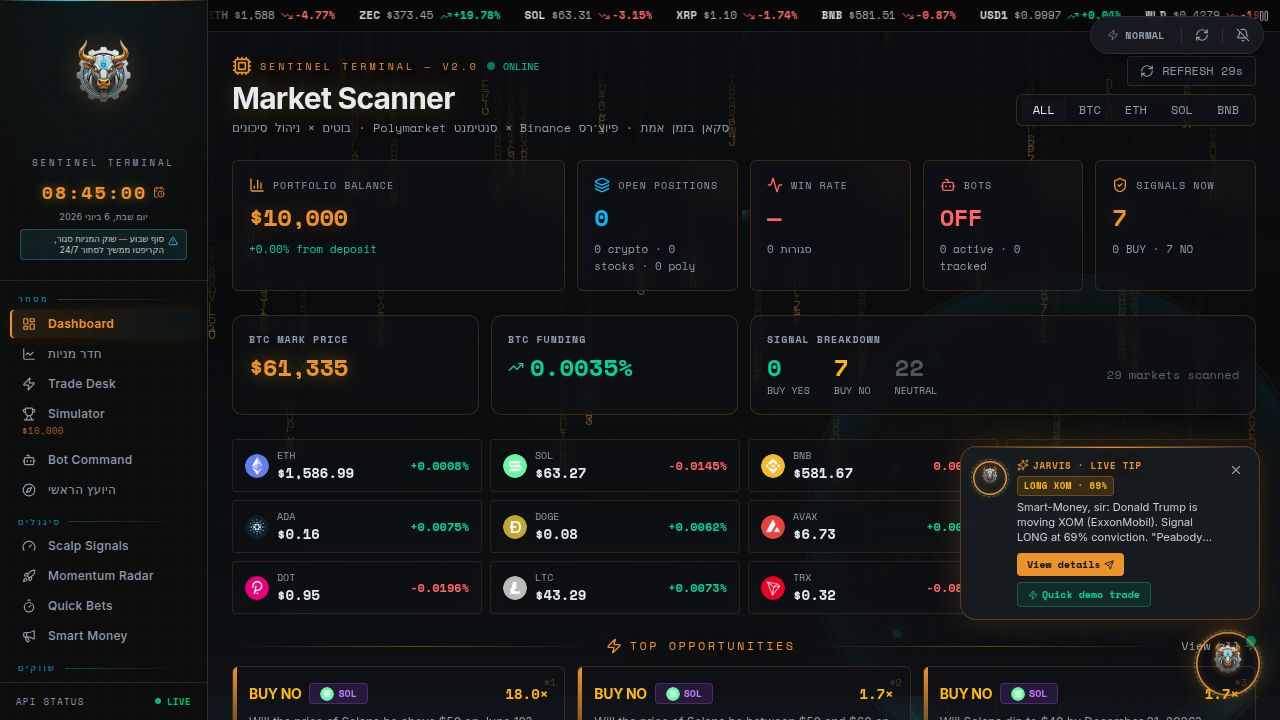
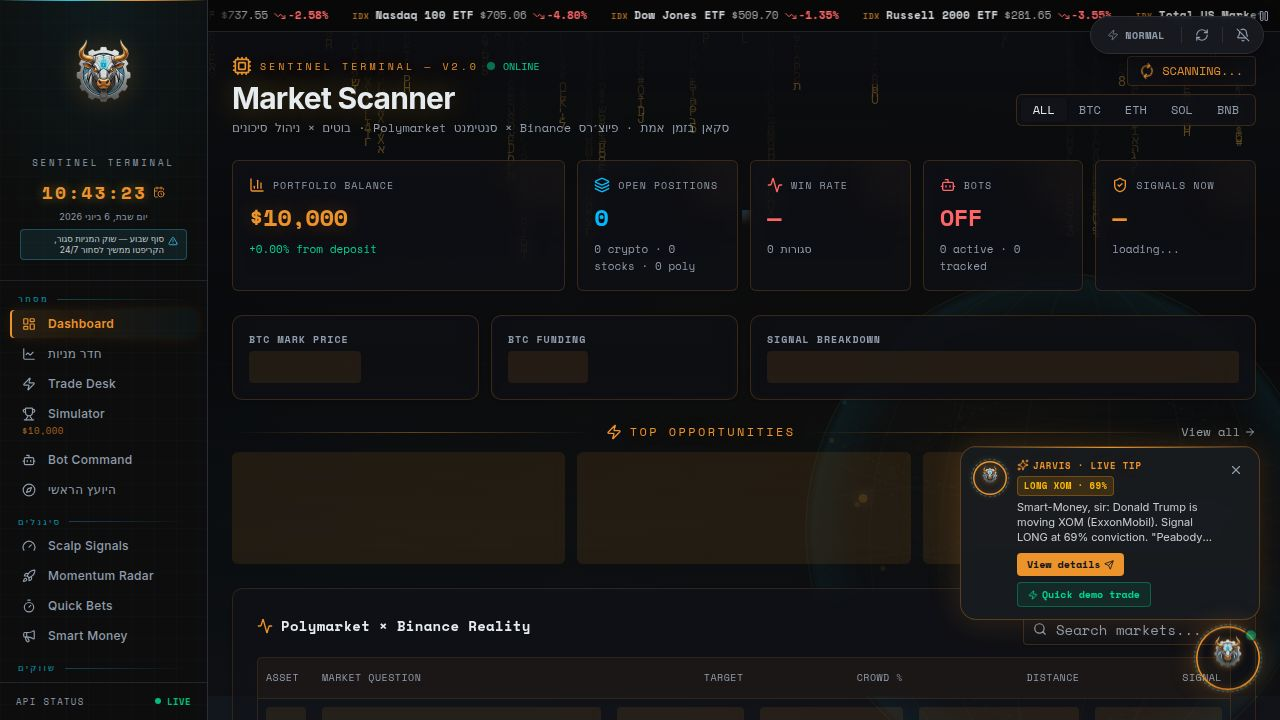
Improve application performance and bot intelligence
Implement lazy loading for all pages, optimize data fetching in the ticker tape, and enhance the DCA bot's accumulation strategy to prioritize buying dips.

Replit-Commit-Author: Agent
Replit-Commit-Session-Id: bf375281-ba89-49a9-b75c-c68e906c7744
Replit-Commit-Checkpoint-Type: full_checkpoint
Replit-Commit-Event-Id: 1d258ce7-ddb5-456a-a730-1f31684256ab
Replit-Commit-Screenshot-Url: https://storage.googleapis.com/screenshot-production-us-central1/078159b9-df19-4eea-b399-6c4569ff1430/bf375281-ba89-49a9-b75c-c68e906c7744/9uGYL6O
Replit-Helium-Checkpoint-Created: true

diff --git a/artifacts/crypto-arb/src/components/ticker-tape.tsx b/artifacts/crypto-arb/src/components/ticker-tape.tsx
@@ -1,4 +1,4 @@
-import { useState } from "react";
+import { useMemo, useState } from "react";
 import {
   useGetMarketOverview,
   getGetMarketOverviewQueryKey,
@@ -34,30 +34,45 @@ export function TickerTape() {
   const { get: getLive } = useLivePrices();
   const [paused, setPaused] = useState(false);
 
-  const indices: Tick[] = (stocks ?? [])
-    .filter((s) => s.category === "INDEX" && Number.isFinite(s.price) && s.price > 0)
-    .map((s) => ({ key: `idx-${s.symbol}`, label: s.name, price: s.price, changePercent: s.changePercent, kind: "index" }));
+  // Heavy filter/find work only recomputes when the underlying data changes,
+  // not on every 250ms live-price tick.
+  const indices = useMemo<Tick[]>(
+    () =>
+      (stocks ?? [])
+        .filter((s) => s.category === "INDEX" && Number.isFinite(s.price) && s.price > 0)
+        .map((s) => ({ key: `idx-${s.symbol}`, label: s.name, price: s.price, changePercent: s.changePercent, kind: "index" })),
+    [stocks],
+  );
 
-  const centralStocks: Tick[] = CENTRAL_STOCKS
-    .map((sym) => (stocks ?? []).find((s) => s.symbol === sym))
-    .filter((s): s is NonNullable<typeof s> => !!s && Number.isFinite(s.price) && s.price > 0)
-    .map((s) => ({ key: `stk-${s.symbol}`, label: s.symbol, price: s.price, changePercent: s.changePercent, kind: "stock" }));
+  const centralStocks = useMemo<Tick[]>(
+    () =>
+      CENTRAL_STOCKS.map((sym) => (stocks ?? []).find((s) => s.symbol === sym))
+        .filter((s): s is NonNullable<typeof s> => !!s && Number.isFinite(s.price) && s.price > 0)
+        .map((s) => ({ key: `stk-${s.symbol}`, label: s.symbol, price: s.price, changePercent: s.changePercent, kind: "stock" })),
+    [stocks],
+  );
 
-  const coins: Tick[] = (overview ?? [])
-    .filter((c) => Number.isFinite(c.price) && c.price > 0)
-    .map((c) => ({
-      key: `crypto-${c.asset}`,
-      label: c.asset,
-      price: getLive(c.asset)?.price ?? c.price,
-      changePercent: c.changePercent,
-      kind: "crypto",
-    }));
+  const coinsBase = useMemo(
+    () =>
+      (overview ?? [])
+        .filter((c) => Number.isFinite(c.price) && c.price > 0)
+        .map((c) => ({ asset: c.asset, price: c.price, changePercent: c.changePercent })),
+    [overview],
+  );
 
-  const ticks = [...indices, ...centralStocks, ...coins];
-  if (ticks.length === 0) return null;
+  // Live price overlay is the only part that needs to update each tick.
+  const coins: Tick[] = coinsBase.map((c) => ({
+    key: `crypto-${c.asset}`,
+    label: c.asset,
+    price: getLive(c.asset)?.price ?? c.price,
+    changePercent: c.changePercent,
+    kind: "crypto",
+  }));
+
+  if (indices.length + centralStocks.length + coins.length === 0) return null;
 
   // Duplicate the row so the -50% scroll loops seamlessly.
-  const row = [...ticks, ...ticks];
+  const row = [...indices, ...centralStocks, ...coins, ...indices, ...centralStocks, ...coins];
 
   return (
     <div className="relative z-10 shrink-0 h-8 overflow-hidden border-b border-border/70 bg-[hsl(0_0%_3%)]">

diff --git a/artifacts/crypto-arb/src/App.tsx b/artifacts/crypto-arb/src/App.tsx
@@ -1,28 +1,29 @@
+import { Suspense, lazy } from "react";
 import { Switch, Route, Router as WouterRouter } from "wouter";
 import { QueryClient, QueryClientProvider } from "@tanstack/react-query";
 import { Toaster } from "@/components/ui/toaster";
 import { TooltipProvider } from "@/components/ui/tooltip";
 import NotFound from "@/pages/not-found";
 import Dashboard from "@/pages/dashboard";
-import Markets from "@/pages/markets";
-import Browse from "@/pages/browse";
-import Binance from "@/pages/binance";
-import Recommendations from "@/pages/recommendations";
-import Simulator from "@/pages/simulator";
-import Stocks from "@/pages/stocks";
-import StockDesk from "@/pages/stock-desk";
-import SmartMoney from "@/pages/smart-money";
-import Movers from "@/pages/movers";
-import Scalp from "@/pages/scalp";
-import Momentum from "@/pages/momentum";
-import QuickBets from "@/pages/quickbets";
-import History from "@/pages/history";
-import TradeDesk from "@/pages/trade-desk";
-import Bots from "@/pages/bots";
-import MasterAdvisor from "@/pages/master-advisor";
-import Research from "@/pages/research";
-import Briefing from "@/pages/briefing";
-import Tools from "@/pages/tools";
+const Markets = lazy(() => import("@/pages/markets"));
+const Browse = lazy(() => import("@/pages/browse"));
+const Binance = lazy(() => import("@/pages/binance"));
+const Recommendations = lazy(() => import("@/pages/recommendations"));
+const Simulator = lazy(() => import("@/pages/simulator"));
+const Stocks = lazy(() => import("@/pages/stocks"));
+const StockDesk = lazy(() => import("@/pages/stock-desk"));
+const SmartMoney = lazy(() => import("@/pages/smart-money"));
+const Movers = lazy(() => import("@/pages/movers"));
+const Scalp = lazy(() => import("@/pages/scalp"));
+const Momentum = lazy(() => import("@/pages/momentum"));
+const QuickBets = lazy(() => import("@/pages/quickbets"));
+const History = lazy(() => import("@/pages/history"));
+const TradeDesk = lazy(() => import("@/pages/trade-desk"));
+const Bots = lazy(() => import("@/pages/bots"));
+const MasterAdvisor = lazy(() => import("@/pages/master-advisor"));
+const Research = lazy(() => import("@/pages/research"));
+const Briefing = lazy(() => import("@/pages/briefing"));
+const Tools = lazy(() => import("@/pages/tools"));
 import Layout from "@/components/layout";
 import { PortfolioProvider } from "@/contexts/portfolio-context";
 import { FavoritesProvider } from "@/contexts/favorites-context";
@@ -34,9 +35,18 @@ import { ExtraBotsEngine } from "@/components/extra-bots-engine";
 
 const queryClient = new QueryClient();
 
+function PageFallback() {
+  return (
+    <div className="flex h-full w-full items-center justify-center py-20">
+      <div className="h-6 w-6 animate-spin rounded-full border-2 border-primary/30 border-t-primary" />
+    </div>
+  );
+}
+
 function Router() {
   return (
     <Layout>
+      <Suspense fallback={<PageFallback />}>
       <Switch>
         <Route path="/" component={Dashboard} />
         <Route path="/browse" component={Browse} />
@@ -60,6 +70,7 @@ function Router() {
         <Route path="/research" component={Research} />
         <Route component={NotFound} />
       </Switch>
+      </Suspense>
     </Layout>
   );
 }

diff --git a/artifacts/crypto-arb/src/components/extra-bots-engine.tsx b/artifacts/crypto-arb/src/components/extra-bots-engine.tsx
@@ -249,22 +249,31 @@ export function ExtraBotsEngine() {
     if (open >= dcaMaxOpen) return;
     if (!(dcaStake > 0) || cash - dcaStake < cashFloor) return;
 
-    const priceOf = (sym: string): number | undefined =>
-      ((stocks ?? []) as StockQuote[]).find((s) => s.symbol === sym)?.price;
+    const quoteOf = (sym: string): StockQuote | undefined =>
+      ((stocks ?? []) as StockQuote[]).find((s) => s.symbol === sym);
 
-    // Rotate through the universe until we find one with a live price.
-    for (let i = 0; i < BLUE_CHIPS.length; i++) {
-      const pick = BLUE_CHIPS[(dcaIdxRef.current + i) % BLUE_CHIPS.length];
-      const price = priceOf(pick.symbol);
-      if (!price || price <= 0) continue;
+    // Smarter DCA: bias accumulation toward weakness. Build the tradable
+    // candidates (those with a live price), then buy the biggest 24h dipper
+    // first. Falls back to the cheapest mover so the bot never stalls when the
+    // whole universe is green — it just accumulates the least-extended name.
+    const candidates = BLUE_CHIPS
+      .map((pick) => {
+        const q = quoteOf(pick.symbol);
+        const price = q?.price ?? 0;
+        return { pick, price, changePercent: q?.changePercent ?? 0 };
+      })
+      .filter((c) => c.price > 0)
+      .sort((a, b) => a.changePercent - b.changePercent);
+
+    for (const { pick, price, changePercent } of candidates) {
       const err = openStockPosition(
         { symbol: pick.symbol, name: pick.name, direction: "LONG", entryPrice: price, auto: true, source: SOURCE.dca },
         dcaStake, 1, cashFloor,
       );
       if (err) continue;
-      dcaIdxRef.current = (dcaIdxRef.current + i + 1) % BLUE_CHIPS.length;
       lastDcaRef.current = now;
-      toast({ title: `Blue-Chip DCA · ${pick.symbol}`, description: `Accumulated $${dcaStake} @ $${price}` });
+      const dipNote = changePercent < 0 ? ` · dip ${changePercent.toFixed(1)}%` : "";
+      toast({ title: `Blue-Chip DCA · ${pick.symbol}`, description: `Accumulated $${dcaStake} @ $${price}${dipNote}` });
       break;
     }
     // eslint-disable-next-line react-hooks/exhaustive-deps

diff --git a/artifacts/crypto-arb/src/pages/dashboard.tsx b/artifacts/crypto-arb/src/pages/dashboard.tsx
@@ -262,16 +262,25 @@ export default function Dashboard() {
     return () => clearInterval(timer);
   }, [isFetching, scanInterval]);
 
-  const btcAsset = data?.binanceAssets?.find((b) => b.asset === "BTC");
-  const filteredMarkets = data?.markets?.filter((m) =>
-    m.market.question.toLowerCase().includes(search.toLowerCase())
+  const btcAsset = useMemo(
+    () => data?.binanceAssets?.find((b) => b.asset === "BTC"),
+    [data],
   );
-  const top3 = topRecs?.slice(0, 3) ?? [];
+  const filteredMarkets = useMemo(
+    () =>
+      data?.markets?.filter((m) =>
+        m.market.question.toLowerCase().includes(search.toLowerCase()),
+      ),
+    [data, search],
+  );
+  const top3 = useMemo(() => topRecs?.slice(0, 3) ?? [], [topRecs]);
 
   const openPos = binancePositions.length + stockPositions.length + polyPositions.length;
-  const closedWins = tradeHistory.filter((t) => t.pnl > 0).length;
-  const winRate =
-    tradeHistory.length > 0 ? Math.round((closedWins / tradeHistory.length) * 100) : null;
+  const winRate = useMemo(() => {
+    if (tradeHistory.length === 0) return null;
+    const closedWins = tradeHistory.filter((t) => t.pnl > 0).length;
+    return Math.round((closedWins / tradeHistory.length) * 100);
+  }, [tradeHistory]);
 
   const portfolioValue = useMemo(() => {
     return cash;

diff --git a/.agents/memory/render-perf-boundaries.md b/.agents/memory/render-perf-boundaries.md
@@ -1,0 +1,29 @@
+---
+name: Render perf boundaries (crypto-arb)
+description: Which hot-path computations must stay un-memoized vs safe to memoize, given the 250ms live-price re-render cadence.
+---
+
+# Render performance boundaries
+
+The app re-renders ~4x/sec because many components subscribe to the live-price
+context (useSyncExternalStore, 250ms throttle). When optimizing, respect these
+boundaries:
+
+- **autotrader-engine `priceMap` must NOT be memoized.** It overlays sub-second
+  live crypto prices (`getLivePrice`) onto the polled overview/stocks data and
+  feeds the SL/TP + trailing-stop pipeline. It is intentionally rebuilt every
+  render so mark-to-market stays current.
+  **Why:** memoizing on `[overview, stocks, binancePositions]` would freeze out
+  the live-price updates between polls (getLivePrice's reference is stable, so
+  useMemo never re-runs), silently degrading SL/TP responsiveness — the whole
+  point of the live layer. The rebuild cost (~few dozen iterations) is trivial.
+  **How to apply:** if a future "optimization" wraps priceMap in useMemo, revert
+  it. Same rule for any derived value that must reflect live prices each tick.
+
+- **Safe to memoize:** purely data-derived values keyed on react-query results
+  (e.g. ticker-tape indices/centralStocks, dashboard btcAsset/filteredMarkets/
+  top3/winRate). These only change when the underlying query data changes, so
+  memoizing them removes wasted work on the 250ms cadence without staleness.
+
+- **Route-level code splitting:** pages are React.lazy() in App.tsx with a
+  Suspense fallback; Dashboard stays eager as the landing route.

diff --git a/.agents/memory/MEMORY.md b/.agents/memory/MEMORY.md
@@ -21,6 +21,7 @@
 - [Per-asset caution learning](per-asset-caution.md) — bots raise caution (1→1.8) on coins they keep losing on; fold-dedupe MUST use persisted global recordedTradeIds, not wallet-scoped tradeHistory
 - [RTL bidi number/slash flip](rtl-bidi-numbers.md) — bare "A / B" number pairs visually reorder in RTL Hebrew; spell sides out in words or wrap in LTR/bdi
 - [Fleet trade modes](trade-modes.md) — NORMAL/CALCULATED/SHLOMI layer over the gear; SHLOMI leverage cap must be enforced in BOTH resolveSizing branches (dynamic returns early)
+- [Render perf boundaries](render-perf-boundaries.md) — autotrader priceMap must NOT be memoized (needs live prices each 250ms tick); data-derived values are safe to memoize; pages are React.lazy
 - [JARVIS bilingual (he/en)](jarvis-bilingual.md) — langRef.current in send/speak/listen avoids stale-closure; store per-message lang and render dir from m.lang (toggling must not flip past msgs); English = British-male butler voice.
 - [Trade-mode & emergency stop](trade-mode-and-emergency-stop.md) — fleet CALCULATED toggle layered via intensityProfile(level,mode) chokepoint; panic close needs per-class price maps (useLivePrices is crypto-only) + entry fallback or positions survive.
 - [Master mastery + briefing framing](master-mastery-and-briefing.md) — master "control level" eases selectivity ALIGNED-only & capped 10%; briefing frames all suggestions as educational "scenarios to watch", never advice (replit.md constraint).